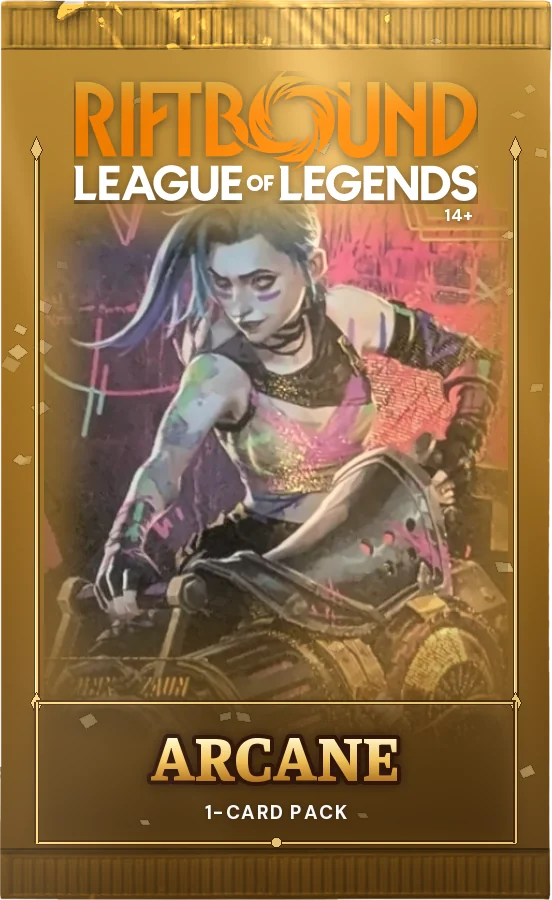
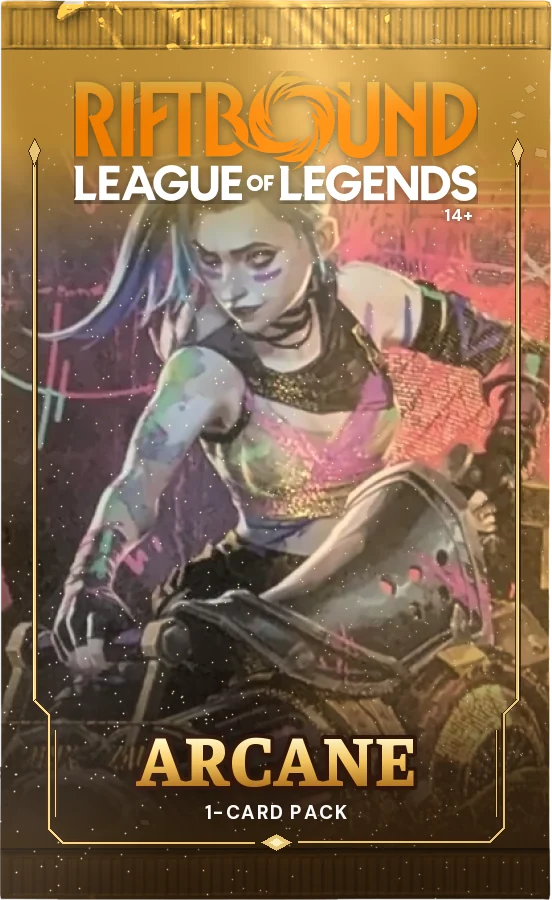
Settings menu, prettier special packs, a popup for a game left off, 2v2 sizes
- A gear left of your picture: card effects, and for your account the
  admin page, your data, deleting the account and signing out (out of
  the top bar and the profile).
- Special packs: the champion over the whole bag, darkening into the
  foot where the name stands, a gold bracket round the name with a jewel,
  and the foil's glitter, as on the boosters.
- A game left off is a card in the corner, like a friend's invite, with
  Resume, Discard and Later, not a bar pushing the page down.
- The 2v2 search shows you, your teammate's and the opponents' seats as
  big as in 1v1; a four-player lobby's seats are bigger too.
- The legal pages and the rules stand in the middle of the page.

Claude-Session: https://claude.ai/code/session_01KsyVhG77pFDVRu6rvW679X

diff --git a/src/lobby/SettingsMenu.tsx b/src/lobby/SettingsMenu.tsx
@@ -1,0 +1,81 @@
+import { useEffect, useRef, useState } from 'react';
+import { setEffects, useEffects } from '../card/effects.ts';
+import { api, showNotice } from '../net/api.ts';
+import { logout, useSession } from '../net/session.ts';
+import { Icon } from './icons.tsx';
+
+/*
+ * The gear left of your picture: how the app looks and moves (card effects),
+ * and your account: the admin page, your data (GDPR art. 15, 17, 20: all of
+ * it as a download, or the account deleted) and signing out.
+ */
+export function SettingsMenu() {
+  const [open, setOpen] = useState(false);
+  const [sure, setSure] = useState(false);
+  const [typed, setTyped] = useState('');
+  const box = useRef<HTMLDivElement>(null);
+  const fx = useEffects();
+  const session = useSession();
+  const user = session.status === 'online' ? session.user : null;
+
+  useEffect(() => {
+    if (!open) { setSure(false); setTyped(''); return; }
+    const away = (e: PointerEvent) => { if (!box.current?.contains(e.target as Node)) setOpen(false); };
+    const esc = (e: KeyboardEvent) => { if (e.key === 'Escape') setOpen(false); };
+    document.addEventListener('pointerdown', away);
+    document.addEventListener('keydown', esc);
+    return () => { document.removeEventListener('pointerdown', away); document.removeEventListener('keydown', esc); };
+  }, [open]);
+
+  const remove = () => api('POST', '/api/account/delete', { confirm: typed })
+    .then(() => { void logout(); location.hash = 'home'; location.reload(); })
+    .catch((e: Error) => showNotice(e.message));
+
+  return (
+    <div className="lb-settings" ref={box}>
+      <button type="button" className="lb-settings__btn" aria-label="Settings" aria-expanded={open} onClick={() => setOpen(!open)}>
+        <Icon name="gear" size={19} />
+      </button>
+      {open && (
+        <div className="lb-settings__menu lb-card" role="menu" aria-label="Settings">
+          <p className="lb-settings__head">Display</p>
+          <div className="lb-settings__row">
+            <span>
+              <b>Card effects</b>
+              <small>Foil, tilt and the animations around them</small>
+            </span>
+            <div className="seg seg--format" role="group" aria-label="Card effects">
+              {(['on', 'off'] as const).map((v) => (
+                <button key={v} type="button" aria-pressed={fx === v} onClick={() => setEffects(v)}>{v === 'on' ? 'On' : 'Off'}</button>
+              ))}
+            </div>
+          </div>
+
+          {user && (
+            <>
+              <p className="lb-settings__head">Account</p>
+              {user.admin && <a role="menuitem" className="lb-settings__item" href="#admin" onClick={() => setOpen(false)}>Admin</a>}
+              <a role="menuitem" className="lb-settings__item" href="/api/account/export" download>Download my data</a>
+              {sure ? (
+                <div className="lb-settings__danger">
+                  <small>Your account and everything in it go for good. Type DELETE to confirm.</small>
+                  <input className="input" value={typed} onChange={(e) => setTyped(e.target.value)} placeholder="DELETE" aria-label="Type DELETE to confirm" />
+                  <span className="lb-settings__btns">
+                    <button type="button" className="btn btn--danger btn--small" disabled={typed !== 'DELETE'} onClick={() => { void remove(); }}>Delete my account</button>
+                    <button type="button" className="btn btn--ghost btn--small" onClick={() => setSure(false)}>Keep it</button>
+                  </span>
+                </div>
+              ) : (
+                <button type="button" role="menuitem" className="lb-settings__item is-danger" onClick={() => setSure(true)}>Delete account…</button>
+              )}
+              <button type="button" role="menuitem" className="lb-settings__item" onClick={() => { void logout(); }}>Sign out</button>
+            </>
+          )}
+          <p className="lb-settings__foot">
+            <a href="#privacy" onClick={() => setOpen(false)}>Privacy</a> · <a href="#imprint" onClick={() => setOpen(false)}>Legal notice</a> · <a href="#rules" onClick={() => setOpen(false)}>Rules</a>
+          </p>
+        </div>
+      )}
+    </div>
+  );
+}

diff --git a/src/lobby/lobby.css b/src/lobby/lobby.css
@@ -1132,7 +1132,9 @@ a.lb-rank:hover { border-color: var(--gold); box-shadow: 0 0 22px rgba(200, 170,
 .lobby-teams { gap: clamp(14px, calc(3 * var(--vw)), 48px); }
 .lobby-team { position: relative; display: flex; gap: clamp(10px, calc(1.6 * var(--vw)), 24px); padding: 26px 14px 12px; border: 1px solid rgba(200, 170, 110, .22); background: linear-gradient(180deg, rgba(10, 30, 50, .55), rgba(3, 14, 27, .2)); }
 .lobby-team__label { position: absolute; top: 6px; left: 50%; translate: -50% 0; font: 600 11px/1 var(--font-display, inherit); letter-spacing: .18em; text-transform: uppercase; color: var(--gold, #c8aa6e); }
-.lobby-teams .ds-slot, .ds__stage:has(> .ds-slot:nth-child(4)) .ds-slot { width: min(clamp(110px, calc(11 * var(--vw)), 190px), calc(27 * var(--vh))); }
+.lobby-teams .ds-slot { width: min(clamp(120px, calc(12.5 * var(--vw)), 220px), calc(31 * var(--vh))); }
+/* the 2v2 search: you, your teammate's seat, the opponents' seat, all as big as in 1v1 and alike */
+.ds__stage:has(> .ds-slot:nth-child(4)) .ds-slot { width: min(clamp(140px, calc(15 * var(--vw)), 260px), calc(34 * var(--vh))); }
 .play-online__note { text-align: center; margin: 4px auto 0; max-width: 560px; }
 
 /* Shop → Bundles: the collections and the official decks, in even tiles */
@@ -1181,3 +1183,39 @@ a.lb-rank:hover { border-color: var(--gold); box-shadow: 0 0 22px rgba(200, 170,
 .seat-away__row > span { font-size: 13px; color: var(--muted); }
 .seat-away__clock { color: var(--lb-gold, #f0c35b); font-variant-numeric: tabular-nums; }
 .seat-away__row.is-back b { color: var(--teal); }
+
+/* ---- the legal pages and the rules: a column in the middle of the page ---- */
+.legal, .prose { width: 100%; max-width: 820px; margin-inline: auto; }
+
+/* ---- a game left off (DeckSetup): the invite's card in the corner ---- */
+.play-resume-pop { width: 320px; }
+.play-resume-pop__kicker { font: 800 10px/1 var(--font-ui); letter-spacing: .22em; text-transform: uppercase; color: var(--teal) !important; }
+
+/* ---- the settings menu, left of your picture (SettingsMenu.tsx) ---- */
+.lb-settings { position: relative; display: flex; }
+.lb-settings__btn {
+  width: 38px; height: 38px; display: grid; place-items: center; padding: 0; cursor: pointer;
+  color: var(--gold); background: rgba(1, 10, 19, .6); border: 1px solid var(--gold-dim); border-radius: 50%;
+  transition: color .15s, border-color .15s, transform .3s;
+}
+.lb-settings__btn:hover, .lb-settings__btn[aria-expanded="true"] { color: var(--gold-hi); border-color: var(--gold); transform: rotate(40deg); }
+.lb-settings__menu {
+  position: absolute; top: calc(100% + 10px); right: 0; z-index: 120; width: 340px; display: grid; gap: 4px; padding: 14px 16px;
+  animation: rise .18s ease;
+}
+.lb-settings__head { margin: 6px 0 2px; font: 800 10px/1 var(--font-ui); letter-spacing: .22em; text-transform: uppercase; color: var(--gold); }
+.lb-settings__head:first-child { margin-top: 0; }
+.lb-settings__row { display: flex; align-items: center; justify-content: space-between; gap: 12px; padding: 6px 0; }
+.lb-settings__row .seg { flex: none; }
+.lb-settings__row b { display: block; font-size: 13px; color: var(--text, #e8e2d0); }
+.lb-settings__row small, .lb-settings__danger small { display: block; font-size: 11px; color: var(--muted); }
+.lb-settings__item {
+  display: block; width: 100%; padding: 8px 10px; text-align: left; font: 600 13px/1.2 var(--font-ui); color: var(--text, #e8e2d0);
+  background: none; border: 0; cursor: pointer; text-decoration: none;
+}
+.lb-settings__item:hover { background: rgba(200, 170, 110, .1); color: var(--gold-hi); }
+.lb-settings__item.is-danger { color: #f2a7b0; }
+.lb-settings__danger { display: grid; gap: 6px; padding: 8px 10px; border: 1px solid rgba(242, 167, 176, .35); }
+.lb-settings__btns { display: flex; gap: 6px; }
+.lb-settings__foot { margin: 8px 0 0; padding-top: 8px; border-top: 1px solid rgba(200, 170, 110, .15); font-size: 11px; color: var(--muted); }
+.lb-settings__foot a { color: var(--muted); }

diff --git a/src/play/setup/DeckSetup.tsx b/src/play/setup/DeckSetup.tsx
@@ -175,6 +175,7 @@ export function DeckSetup({ cards, db, initial, error, onStart, saved, onResume,
   owned?: string | null;
 }) {
   const [c, setC] = useState<DeckSetupChoice>(initial);
+  const [later, setLater] = useState(false);
   const [picking, setPicking] = useState<null | 'mine' | 'theirs'>(null);
   const [settings, setSettings] = useState(false);
   const mine = deckById(c.mine), theirs = deckById(c.theirs);
@@ -185,22 +186,22 @@ export function DeckSetup({ cards, db, initial, error, onStart, saved, onResume,
 
   return (
     <section className="play-setup ds">
-      {saved && onResume && (
-        <section className="play-resume lb-card" aria-label="Saved game">
-          <div>
-            <p className="eyebrow">Game in progress</p>
-            <strong>{saved.title}</strong>
-            <p className="muted small">
-              Turn {saved.turn} · score {saved.points[0]}–{saved.points[1]} ·{' '}
-              {saved.seats[1].k === 'human' ? 'hot-seat' : saved.seats[1].k === 'ai' ? `computer (${saved.seats[1].level})` : 'simple bot'}
-              {' '}· saved {new Date(saved.savedAt).toLocaleString()}
-            </p>
-          </div>
-          <div className="play-resume__buttons">
-            <button type="button" className="btn btn--cta" onClick={() => onResume(saved)}>Resume</button>
-            {onDiscard && <button type="button" className="btn btn--ghost" onClick={onDiscard}>Discard</button>}
-          </div>
-        </section>
+      {/* a game left off: a card in the corner, as a friend's invite, not a bar that pushes the page down */}
+      {saved && onResume && !later && (
+        <div className="soc-challenge play-resume-pop lb-card" role="dialog" aria-label="Saved game">
+          <span className="play-resume-pop__kicker">Game in progress</span>
+          <b>{saved.title}</b>
+          <span>
+            Turn {saved.turn} · score {saved.points[0]}–{saved.points[1]} ·{' '}
+            {saved.seats[1].k === 'human' ? 'hot-seat' : saved.seats[1].k === 'ai' ? `computer (${saved.seats[1].level})` : 'simple bot'}
+            {' '}· saved {new Date(saved.savedAt).toLocaleString()}
+          </span>
+          <span className="soc-challenge__btns">
+            <button type="button" className="btn btn--cta btn--small" onClick={() => onResume(saved)}>Resume</button>
+            {onDiscard && <button type="button" className="btn btn--ghost btn--small" onClick={onDiscard}>Discard</button>}
+            <button type="button" className="btn btn--ghost btn--small" onClick={() => setLater(true)}>Later</button>
+          </span>
+        </div>
       )}
 
       <header className="ds__bar">

diff --git a/src/views/ProfileView.tsx b/src/views/ProfileView.tsx
@@ -6,37 +6,15 @@ import { useCollection } from '../collection/store.ts';
 import type { CardDb } from '../data/types.ts';
 import { DEMO, DEMO_PROFILE } from '../lobby/demo.ts';
 import { Lobby } from '../lobby/Lobby.tsx';
-import { api, showNotice } from '../net/api.ts';
+import { api } from '../net/api.ts';
 import type { RatingInfo } from '../net/protocol.ts';
-import { logout, useSession } from '../net/session.ts';
+import { useSession } from '../net/session.ts';
 import { HeroBanner } from './HeroBanner.tsx';
 import { ProfileShowcase } from './ProfileShowcase.tsx';
 import { useShowcase } from './showcasePieces.ts';
 
 type Standing = RatingInfo & { wins: number };
 interface Stats { ranked: Standing; casual: Standing; tournamentsWon: number }
-
-/** Your data (GDPR art. 15, 17, 20): download all of it, or delete the account. */
-function YourData() {
-  const [confirm, setConfirm] = useState(false);
-  const [typed, setTyped] = useState('');
-  const remove = () => api('POST', '/api/account/delete', { confirm: typed })
-    .then(() => { void logout(); location.hash = 'home'; location.reload(); })
-    .catch((e: Error) => showNotice(e.message));
-  return (
-    <section className="profile__data lb-card" aria-label="Your data">
-      <a className="btn btn--ghost btn--small" href="/api/account/export" download>Download my data</a>
-      {confirm ? (
-        <span className="profile__delete">
-          <input className="input" value={typed} onChange={(e) => setTyped(e.target.value)} placeholder="Type DELETE" aria-label="Type DELETE to confirm" />
-          <button type="button" className="btn btn--danger btn--small" disabled={typed !== 'DELETE'} onClick={remove}>Delete my account</button>
-          <button type="button" className="btn btn--ghost btn--small" onClick={() => { setConfirm(false); setTyped(''); }}>Keep it</button>
-        </span>
-      ) : <button type="button" className="lb-linkbtn" onClick={() => setConfirm(true)}>Delete account</button>}
-      <a className="lb-linkbtn" href="#privacy">Privacy</a>
-    </section>
-  );
-}
 
 /** Your public face: who you are, the cards you show off, how you play. */
 export function ProfileView({ db, onInspect }: { db: CardDb; onInspect: (t: InspectTarget) => void }) {
@@ -103,7 +81,6 @@ export function ProfileView({ db, onInspect }: { db: CardDb; onInspect: (t: Insp
         </HeroBanner>
 
         <ProfileShowcase db={db} pieces={pieces} onInspect={onInspect} />
-        {user && <YourData />}
 
       </div>
     </Lobby>

diff --git a/src/lobby/Lobby.tsx b/src/lobby/Lobby.tsx
@@ -1,14 +1,14 @@
 import { useEffect, useState, type ReactNode } from 'react';
 import { divisionProgress, rankName, tierOf } from '../economy/ranks.ts';
 import { RankEmblem } from './RankEmblem.tsx';
-import { HoloSwitches } from '../card/HoloSwitches.tsx';
 import { useCollection } from '../collection/store.ts';
 import { api } from '../net/api.ts';
 import type { RatingInfo } from '../net/protocol.ts';
-import { logout, useSession } from '../net/session.ts';
+import { useSession } from '../net/session.ts';
 import { useOnline } from '../net/socket.ts';
 import { DEMO, DEMO_PROFILE } from './demo.ts';
 import { Icon, type IconName } from './icons.tsx';
+import { SettingsMenu } from './SettingsMenu.tsx';
 import './lobby.css';
 
 export const NAV = [
@@ -42,10 +42,10 @@ export function LobbyTop({ route }: { route: string }) {
         {DEMO && <a href="#ranks" aria-current={route === 'ranks' ? 'page' : undefined}>Ranks</a>}
       </nav>
       <div className="lb-top__right">
-        <HoloSwitches />
         <a className="lb-pill" href="#shop" title="Your coins" aria-label={`${own.coins} coins`}>
           <Coin /> {own.coins.toLocaleString('en-US')}
         </a>
+        <SettingsMenu />
         {session.status === 'online' && !user ? (
           <a className="btn btn--primary btn--small" href="/auth/discord">Sign in with Discord</a>
         ) : (
@@ -53,8 +53,6 @@ export function LobbyTop({ route }: { route: string }) {
             {user?.avatar ? <img src={user.avatar} alt="" /> : <span>{name.slice(0, 1).toUpperCase()}</span>}
           </a>
         )}
-        {user?.admin && <a className="lb-signout" href="#admin">Admin</a>}
-        {user && <button type="button" className="lb-signout" onClick={() => { void logout(); }}>Sign out</button>}
       </div>
     </header>
   );

diff --git a/src/lobby/icons.tsx b/src/lobby/icons.tsx
@@ -17,6 +17,7 @@ const PATHS = {
   users: 'M9 11a3.500 3.500 0 1 0 0-7 3.500 3.500 0 0 0 0 7Z M2.500 20c.4-3.300 3-5 6.500-5s6.100 1.700 6.500 5 M16 11.500a3 3 0 1 0 0-6 M17.500 15c2.200.4 3.700 2 4 5',
   search: 'M10.500 17a6.500 6.500 0 1 0 0-13 6.500 6.500 0 0 0 0 13Z M15.500 15.500 21 21',
   plus: 'M12 5v14 M5 12h14',
+  gear: 'M12 9a3 3 0 1 0 0 6 3 3 0 0 0 0-6Z M10.3 3h3.4l.5 2.4 1.6.9 2.3-.8 1.7 2.9-1.8 1.6v1.9l1.8 1.6-1.7 2.9-2.3-.8-1.6.9-.5 2.4h-3.4l-.5-2.4-1.6-.9-2.3.8-1.7-2.9 1.8-1.6v-1.9L4.2 8.4l1.7-2.9 2.3.8 1.6-.9.5-2.4Z',
   close: 'M6 6l12 12 M18 6 6 18',
   back: 'M15 5l-7 7 7 7',
   chevronRight: 'M9 5l7 7-7 7',

diff --git a/scripts/special-packs.py b/scripts/special-packs.py
@@ -138,41 +138,61 @@ def crimps(img, ven):
 
 
 def art(card, crop):
+    """The champion over the whole width of the bag, as on the boosters: fading into the foil under
+    the logo, and darkening into the foot, where the name stands on it."""
     scan = cv2.imread(os.path.join(CARDS, f'{card}.webp'))
     x0, y0, x1, y1 = crop
     a = scan[y0:y1, x0:x1]
-    # the window the champion fills: between the rails, from under the logo into the name plate
-    wx0, wy0, wx1, wy1 = 44, 170, W - 44, 760
+    wx0, wy0, wx1, wy1 = 0, 120, W, 848
     tw, th = wx1 - wx0, wy1 - wy0
     s = max(tw / a.shape[1], th / a.shape[0])
     a = cv2.resize(a, (round(a.shape[1] * s), round(a.shape[0] * s)), interpolation=cv2.INTER_AREA)
-    ox, oy = (a.shape[1] - tw) // 2, (a.shape[0] - th) // 3
+    ox, oy = (a.shape[1] - tw) // 2, (a.shape[0] - th) // 4
     a = a[oy:oy + th, ox:ox + tw]
-    m = np.zeros((th, tw), np.float32)
-    m[24:-24, 22:-22] = 1
-    m = cv2.GaussianBlur(m, (0, 0), 22)
-    # fading into the foil under the logo and down into the name
     yy = np.linspace(0, 1, th)[:, None]
-    m *= np.clip(yy / .14, 0, 1) * np.clip((1 - yy) / .32, 0, 1) ** .8
-    return a.astype(float), m, (wx0, wy0)
+    xx = np.linspace(-1, 1, tw)[None, :]
+    # in under the logo, out at the foot; a little softer at the very sides, where the bag curves away
+    m = np.clip((yy - .03) / .17, 0, 1) * np.clip((1 - yy) / .1, 0, 1) * (1 - .25 * np.abs(xx) ** 6)
+    return a.astype(float), m.astype(np.float32), (wx0, wy0)
+
+
+GOLD, GOLD_HI, GOLD_EDGE = (232, 196, 116, 255), (255, 238, 190, 255), (50, 28, 6, 210)
+
+
+def gold_line(draw, pts, width=3):
+    draw.line(pts, fill=GOLD_EDGE, width=width + 3, joint='curve')
+    draw.line(pts, fill=GOLD, width=width, joint='curve')
 
 
 def gold_rails(draw):
-    """The gold frame of the boosters: a rail down each side, opening round the name plate."""
-    for x in (36, W - 37):
-        draw.line([(x, 150), (x, 702)], fill=(60, 34, 8, 200), width=6)
-        draw.line([(x, 150), (x, 702)], fill=(232, 196, 116, 255), width=3)
-        draw.line([(x - 1, 150), (x - 1, 702)], fill=(255, 238, 190, 255), width=1)
-        for y, d in ((150, -1), (702, 1)):
-            draw.polygon([(x - 6, y), (x, y + 14 * d), (x + 6, y), (x, y - 10 * d)], fill=(232, 196, 116, 255), outline=(60, 34, 8, 220))
-    # the plate under the name: two lines joined at the rails
-    for y in (702, 842):
-        draw.line([(36, y), (W - 37, y)], fill=(60, 34, 8, 200), width=5)
-        draw.line([(36, y), (W - 37, y)], fill=(232, 196, 116, 255), width=2)
-    for x in (36, W - 37):
-        draw.line([(x, 702), (x, 842)], fill=(60, 34, 8, 200), width=5)
-        draw.line([(x, 702), (x, 842)], fill=(232, 196, 116, 255), width=2)
-    draw.ellipse([(W // 2 - 5, 837), (W // 2 + 5, 847)], fill=(232, 196, 116, 255), outline=(60, 34, 8, 220))
+    """The gold frame of the boosters: a rail down each side from under the logo, turning in at the foot
+    into a bracket round the name, with a jewel at its centre."""
+    top, turn, foot = 150, 700, 846
+    for side in (1, -1):
+        x = 34 if side == 1 else W - 35
+        gold_line(draw, [(x, top), (x, turn)])
+        draw.line([(x - side, top), (x - side, turn)], fill=GOLD_HI, width=1)
+        draw.polygon([(x - 6, top), (x, top - 12), (x + 6, top), (x, top + 16)], fill=GOLD, outline=GOLD_EDGE)
+        # at the foot: a step in, down beside the name, then under it to the middle
+        k = 14 * side
+        gold_line(draw, [(x, turn), (x + k, turn + 14), (x + k, foot - 18), (x + 2 * k, foot - 4), (W // 2 - 22 * side, foot - 4)], 2)
+        gold_line(draw, [(x + k + 7 * side, turn + 30), (x + k + 7 * side, foot - 30)], 1)
+    # the jewel under the name
+    cx, cy = W // 2, 842
+    draw.polygon([(cx - 16, cy), (cx, cy - 9), (cx + 16, cy), (cx, cy + 9)], fill=GOLD, outline=GOLD_EDGE)
+    draw.polygon([(cx - 7, cy), (cx, cy - 4), (cx + 7, cy), (cx, cy + 4)], fill=GOLD_HI)
+
+
+def glitter(img, c1, rng):
+    """The foil's fine glitter, brighter where the light falls."""
+    n = rng.random((H, W))
+    spark = (n > .9982).astype(np.float32)
+    spark = cv2.GaussianBlur(spark, (0, 0), .6) * 3
+    yy, xx = np.mgrid[0:H, 0:W].astype(float)
+    light = .4 + .6 * np.exp(-(((xx * .8 + yy * .35) - W * .55) / 160) ** 2)
+    col = c1 * .35 + 255 * .65
+    a = np.clip(spark * light * .8, 0, .75)[..., None]
+    return img * (1 - a) + col * a
 
 
 def gold_text(img, text, cy, face, max_w, size):
@@ -236,11 +256,11 @@ def main():
         a, m, (ax, ay) = art(p['card'], p['crop'])
         win = img[ay:ay + a.shape[0], ax:ax + a.shape[1]]
         img[ay:ay + a.shape[0], ax:ax + a.shape[1]] = win * (1 - m[..., None]) + a * m[..., None]
-        # the plate under the name, a shade darker so the gold reads
-        plate = np.zeros((H, W), np.float32)
-        plate[704:840, 38:W - 38] = 1
-        plate = cv2.GaussianBlur(plate, (0, 0), 10)
-        img = img * (1 - .28 * plate[..., None]) + c3 * .28 * plate[..., None]
+        # the foot darkens into the wrapper's deepest colour, so the gold name reads on the art
+        yy = np.linspace(0, 1, H)[:, None, None]
+        foot = np.clip((yy - .66) / .2, 0, 1) ** 1.2 * .72
+        img = img * (1 - foot) + c3 * foot
+        img = glitter(img, c1, rng)
         img = crimps(img, ven)
         # the logo, centred, with a soft shadow under it as printed
         lh, lw = logo_a.shape
@@ -256,7 +276,7 @@ def main():
         fr = np.asarray(frame, float)
         fa = fr[..., 3:4] / 255
         rgba[..., :3] = rgba[..., :3] * (1 - fa) + fr[..., [2, 1, 0]] * fa
-        rgba = gold_text(rgba, p['title'], 760, title_face, W - 110, 64)
+        rgba = gold_text(rgba, p['title'], 762, title_face, W - 120, 72)
         rgba = plain_text(rgba, p['sub'], 812, ui_face, 19, 1.5)
         rgba = plain_text(rgba, '14+', LOGO_TOP + logo_a.shape[0] + 14, ui_face, 17, 1, x=(W + logo_a.shape[1]) // 2 - 34)
         # a soft sheen across the foil, as the photographed packs have
